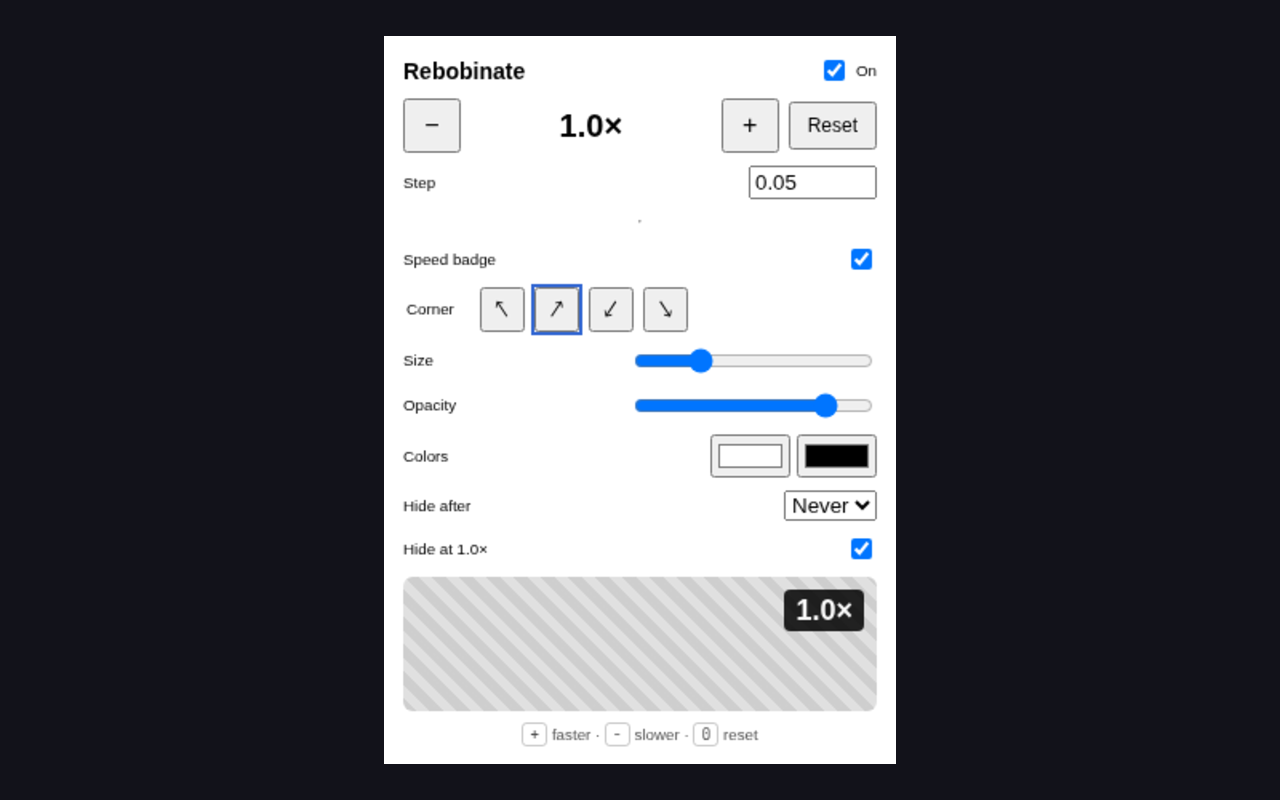
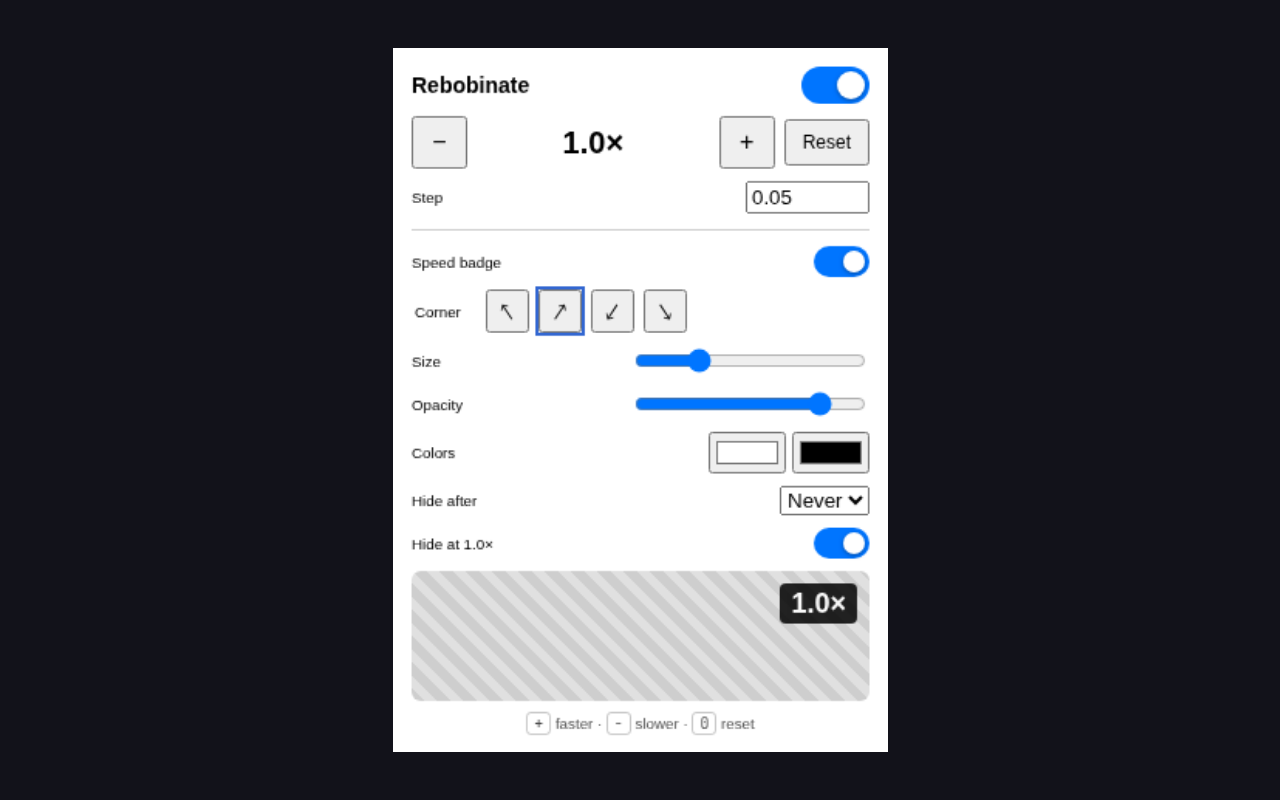
feat: capture all three listing screenshots without post-processing
The popup capture is now composited onto the 1280x800 canvas by the script
itself, scaled to fit rather than at a fixed zoom, so a taller popup cannot
silently crop. Adds a third screenshot pointing at the GitHub repo.

Changed region(s): [[0.2812, 0.0312, 0.7188, 0.9688], [0.4375, 0.125, 0.5, 0.2188]]

diff --git a/docs/store-listings.md b/docs/store-listings.md
@@ -7,10 +7,13 @@ code.
   Developer Dashboard.
 - `chrome-web-store/privacy-justifications.md` — paste-ready single-purpose,
   permission, and data-usage answers for the dashboard privacy form.
-- `chrome-web-store/screenshots/` — listing screenshots (1280×800 or 640×400,
-  at least one, ideally three). Regenerate them from the real extension with
-  `node scripts/capture-screenshots.mjs` after `pnpm build`; the script prints
-  the ImageMagick command that centres the popup capture on a 1280×800 canvas.
+- `chrome-web-store/screenshots/` — listing screenshots, three of the five the
+  Developer Dashboard allows: the speed badge over a player, the popup, and the
+  "contribute on GitHub" card. Regenerate all three with
+  `node scripts/capture-screenshots.mjs` after `pnpm build`. The script writes
+  them at 1280×800 and needs no post-processing; it scales the popup capture to
+  fit the canvas rather than assuming a fixed zoom, so adding a control to the
+  popup cannot silently crop it.
 - `chrome-web-store/promo-tile-440x280.png` — the small promo tile.
 - `amo/description.txt` — the AMO description.
 - `amo/listing.json` — slug, summary, categories, tags, and support URLs;
